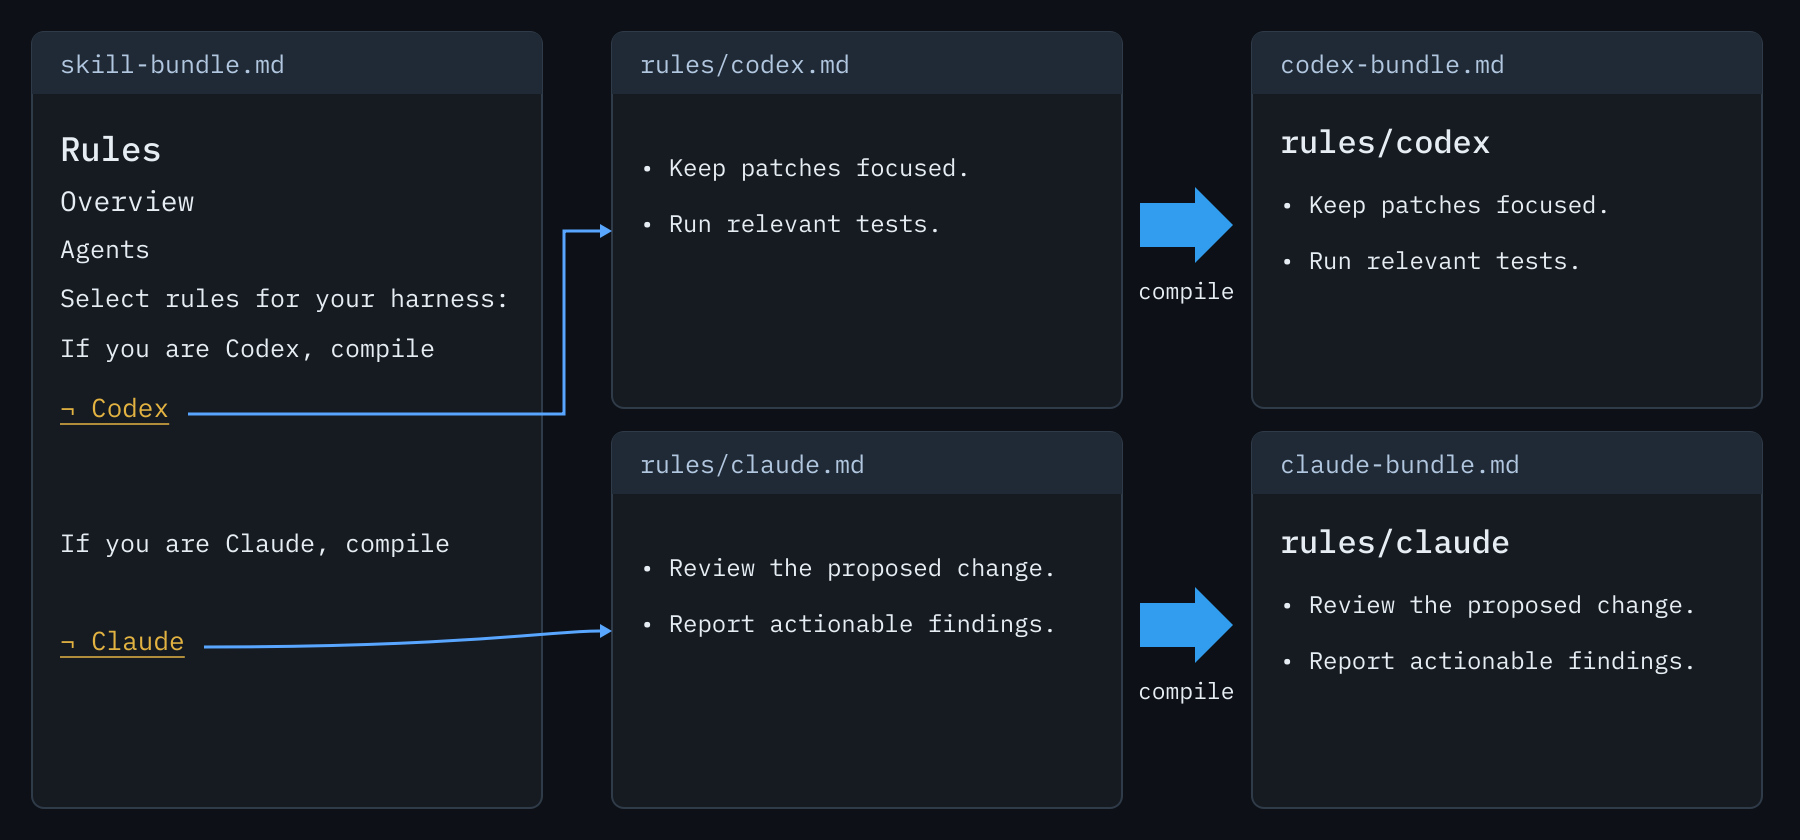
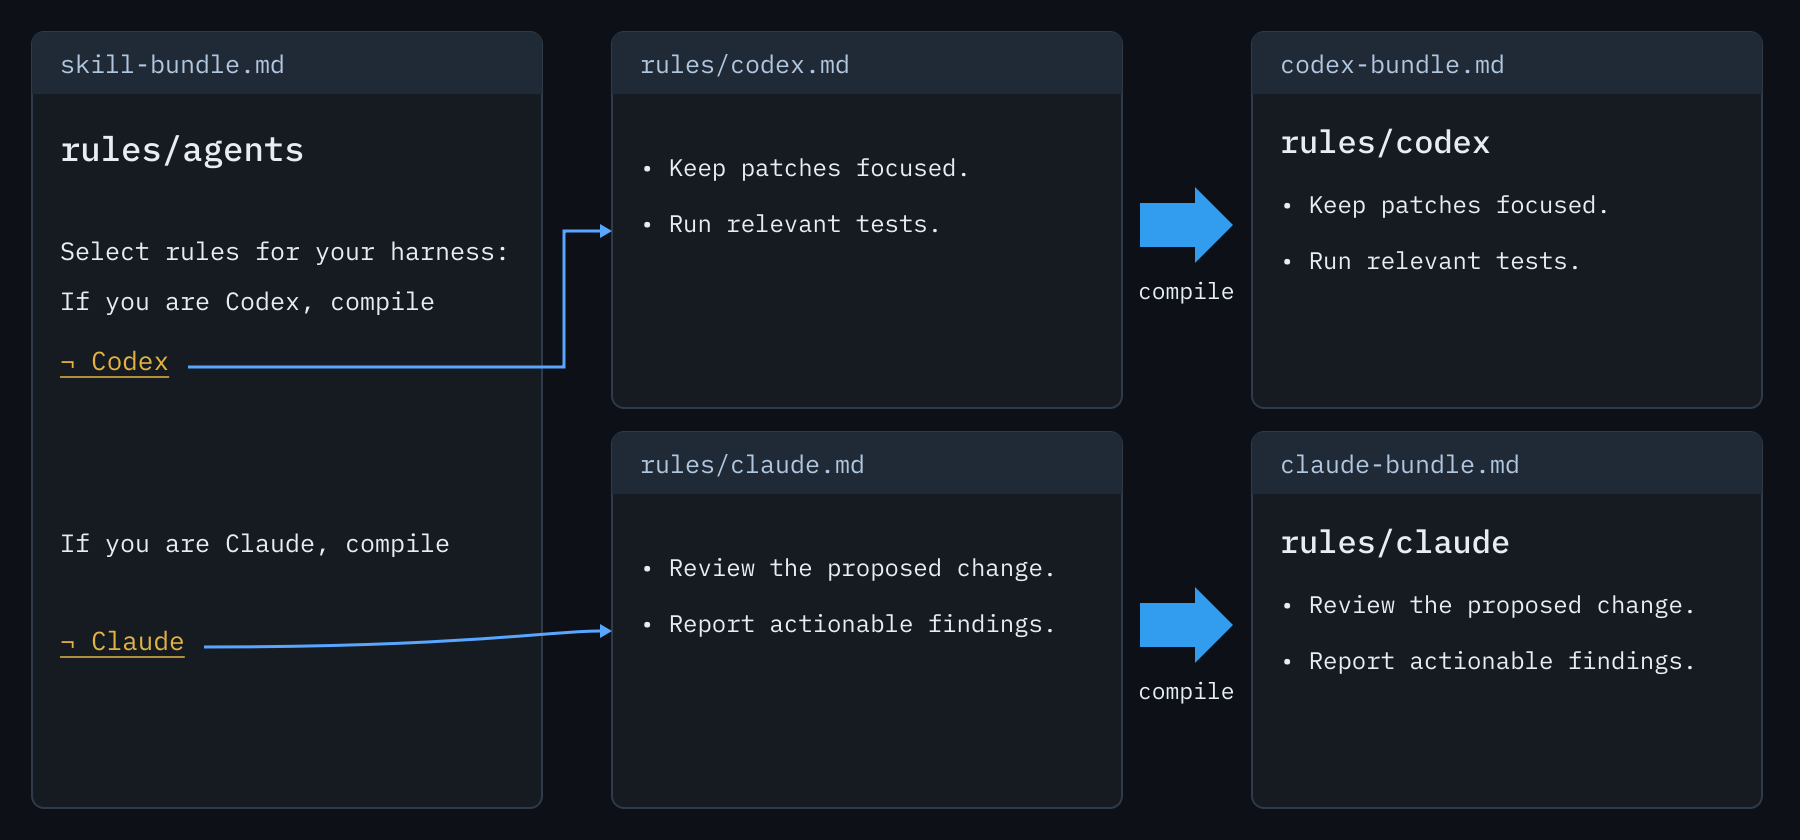
docs: compile the skill bundle without explicit grouping

diff --git a/README.md b/README.md
@@ -33,11 +33,10 @@ Run these diagram examples from `example/`, using [my-skill](example/my-skill/SK
 
 ```bash
 prosiform --root my-skill \
-  --group rules:1 \
   --output skill-bundle.md procedure.md rules/common.md
 ```
 
-![SKILL.md selects procedure.md and rules/common.md. Procedure includes tips.md; Rules includes rules/agents.md. Agents and Common appear under Rules / Overview; Agents directs each harness to its deferred Codex or Claude rules. SKILL.md and the harness-specific rules are excluded.](docs/images/compilation.png)
+![SKILL.md selects procedure.md and rules/common.md. Procedure includes tips.md; Rules includes rules/agents.md. Each document has its own bundle section; Agents directs each harness to its deferred Codex or Claude rules. SKILL.md and the harness-specific rules are excluded.](docs/images/compilation.png)
 
 #### Compile agent-specific rules
 
